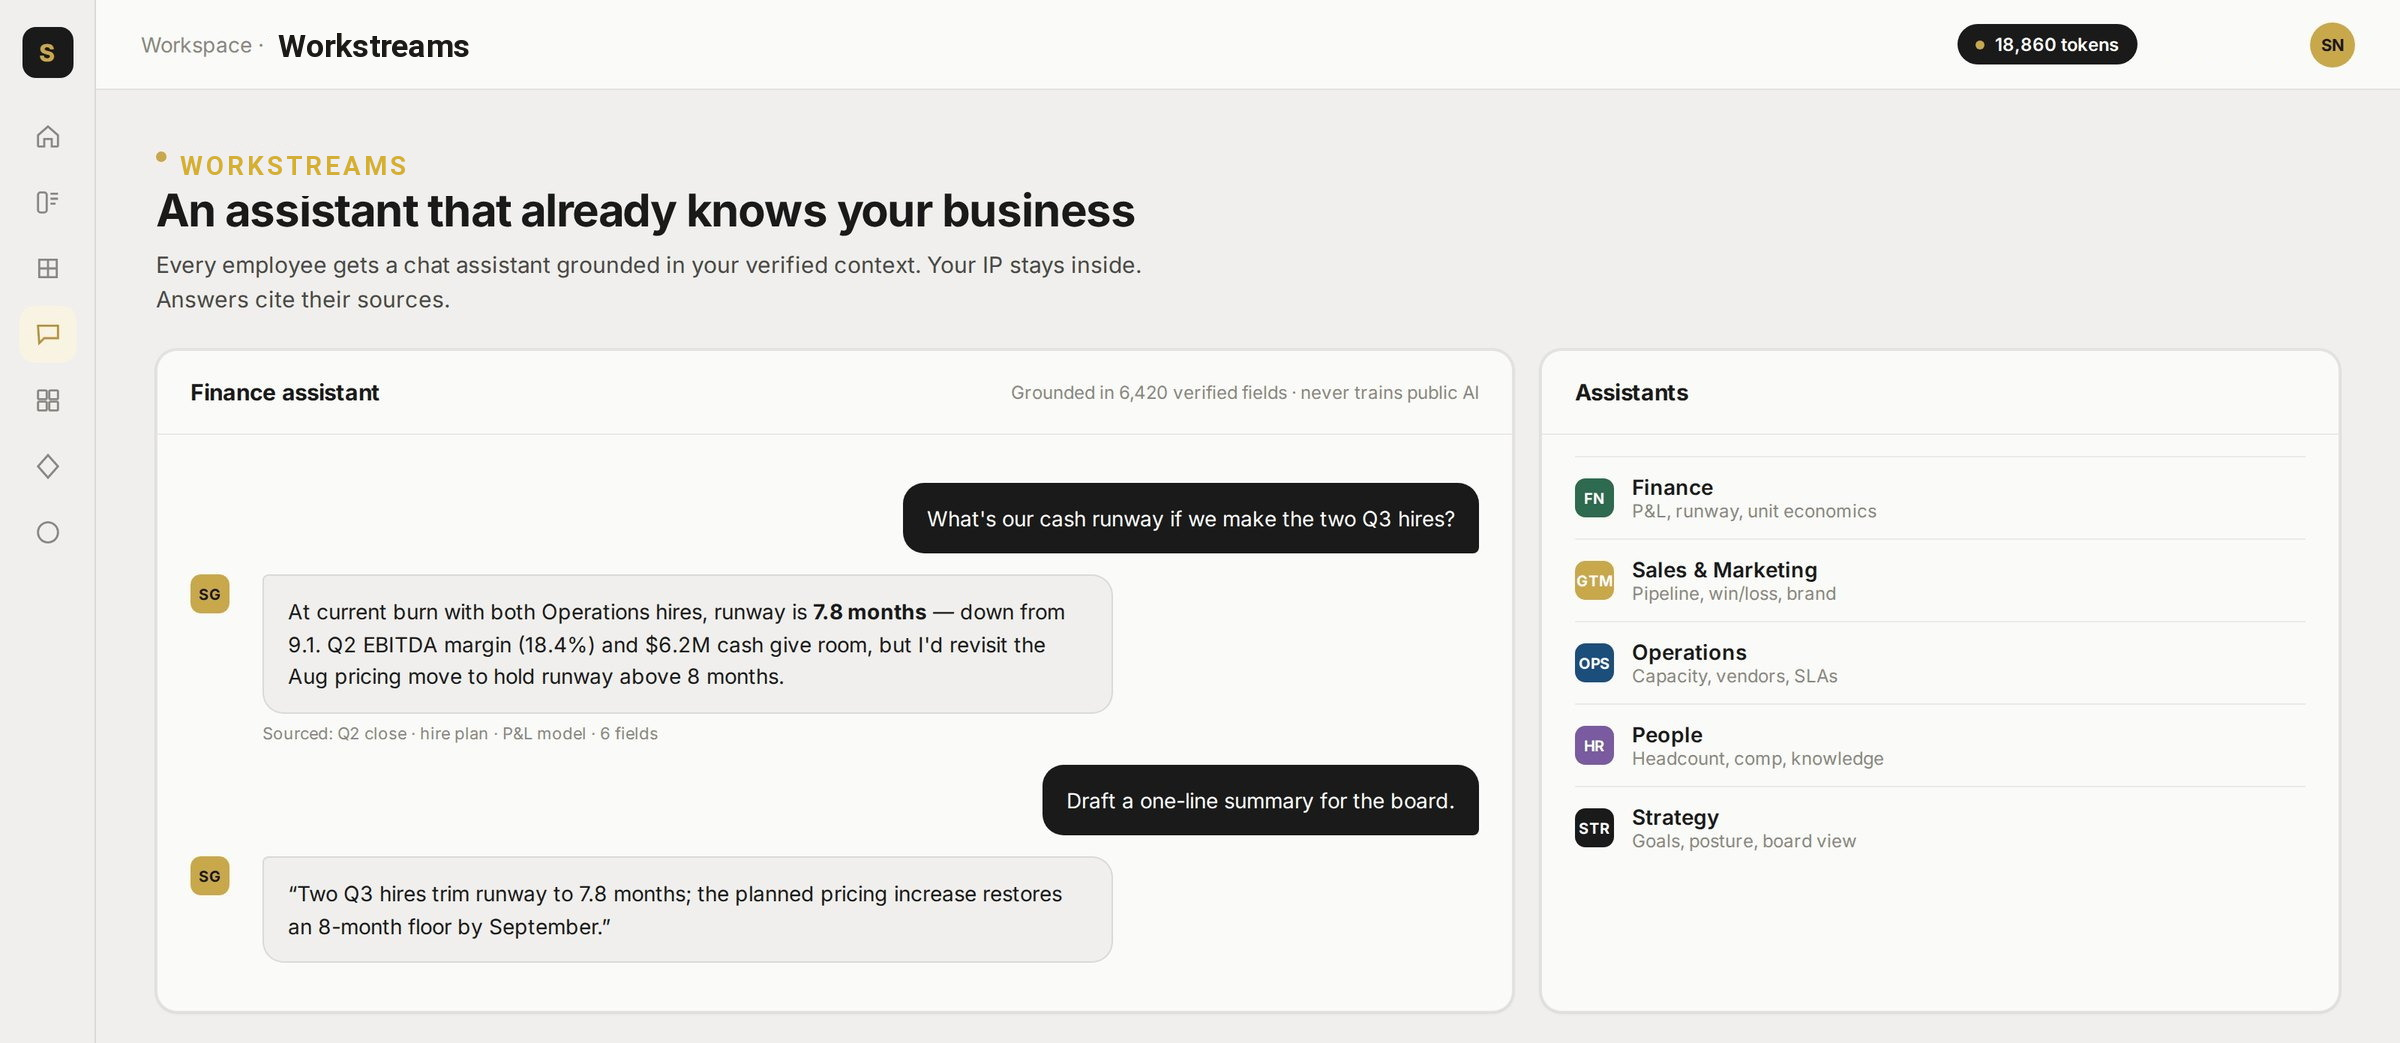
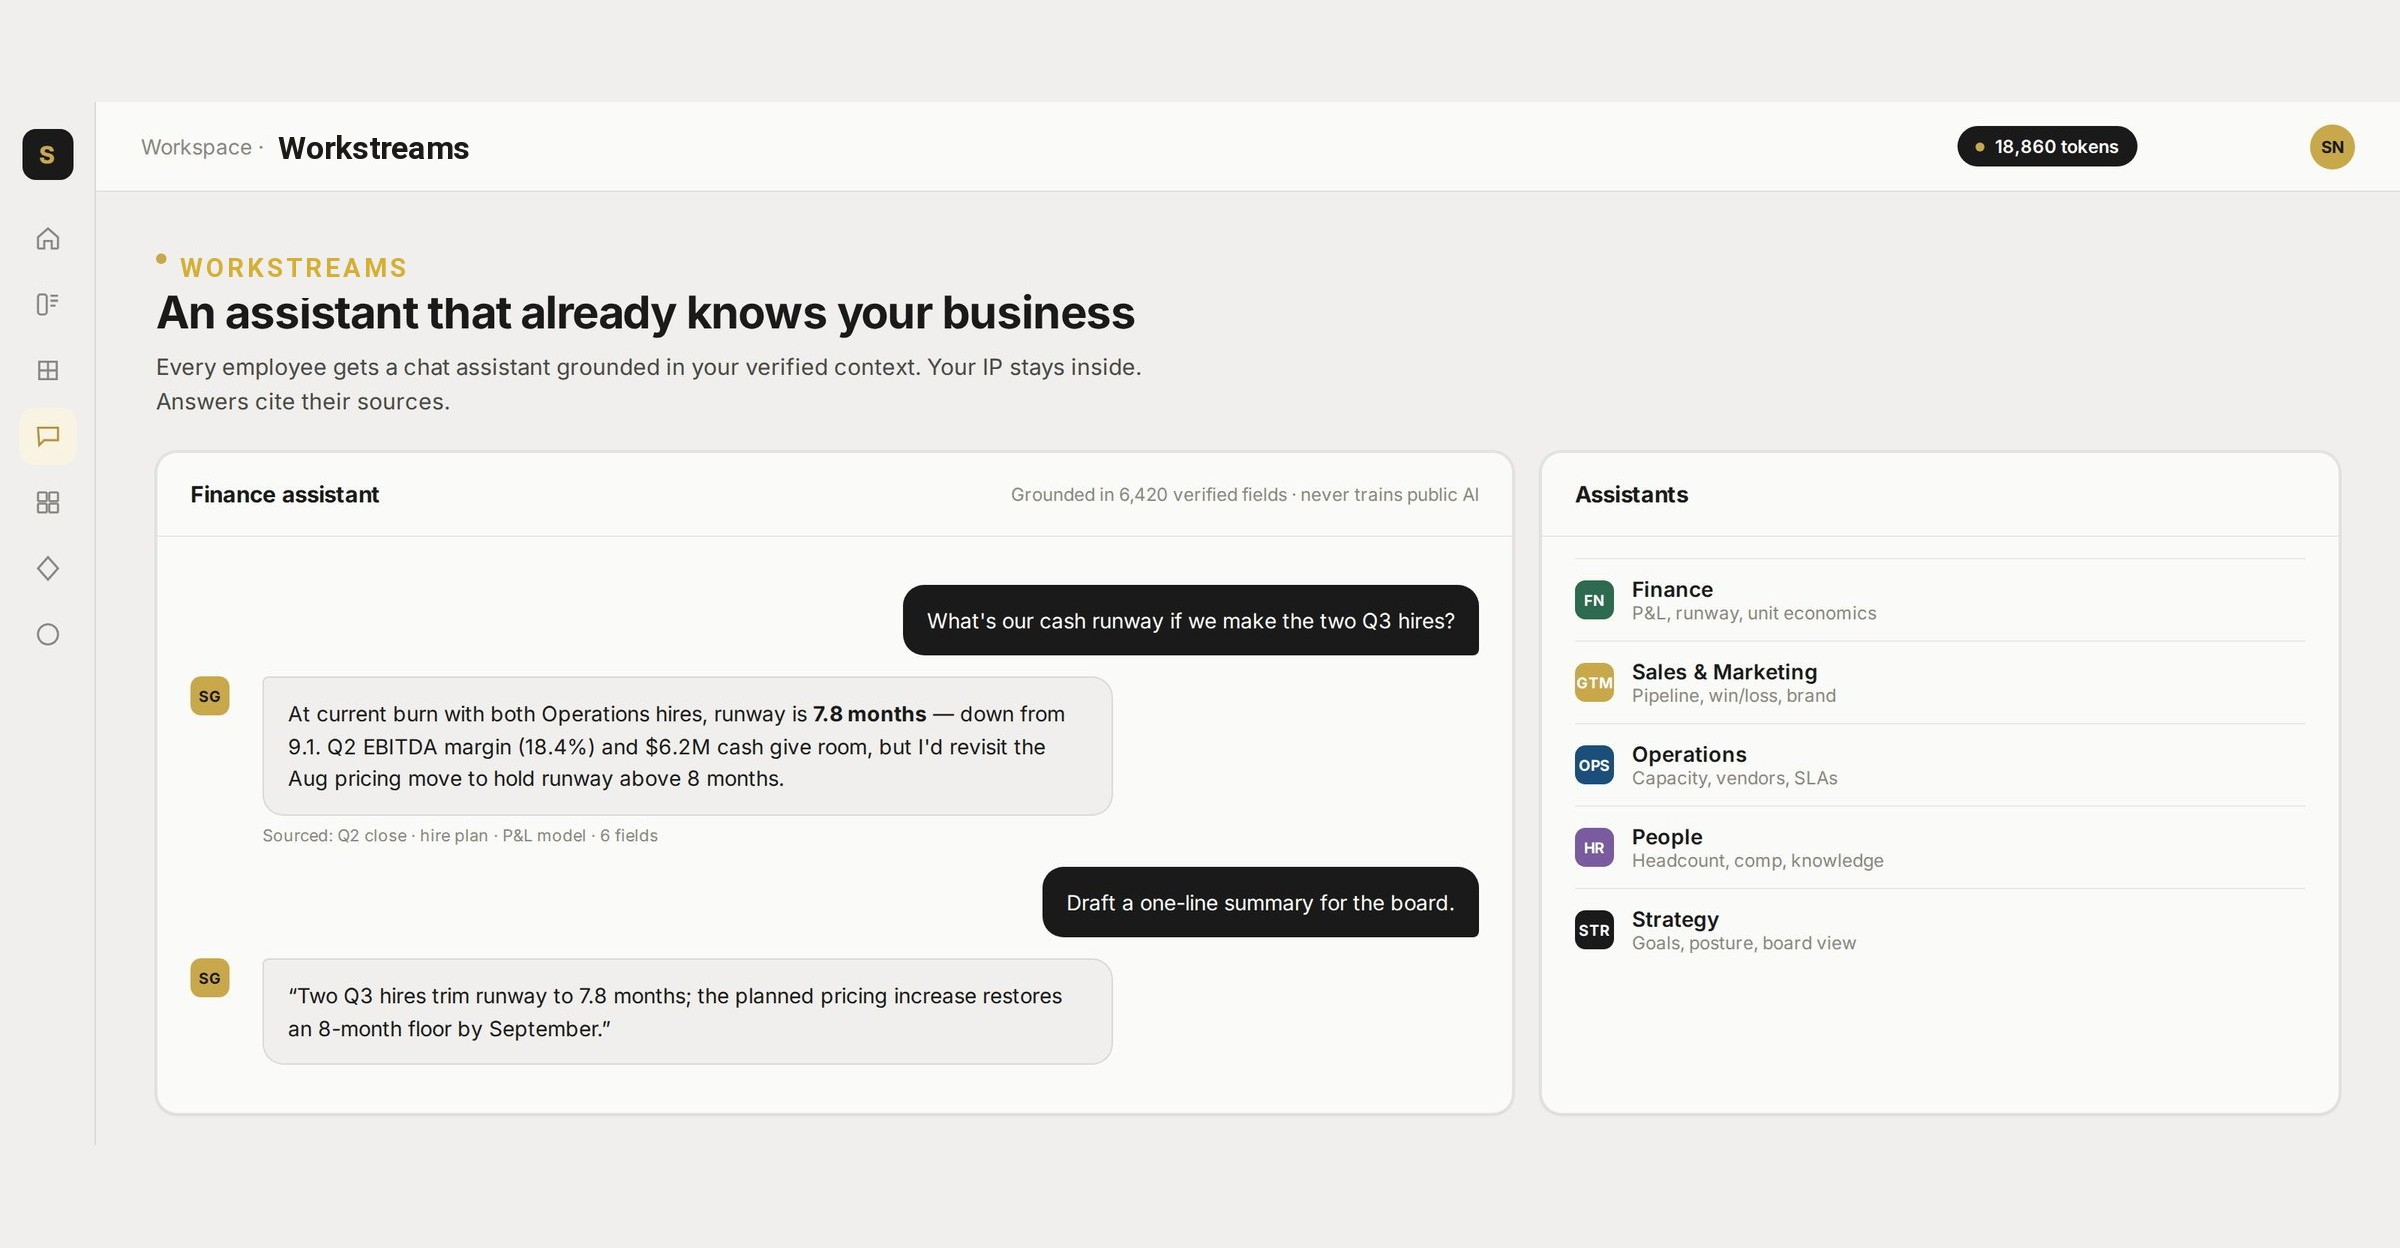
home: Workstreams image reframed to match Business Brain aspect (1600x832), no gray padding

diff --git a/index.html b/index.html
@@ -25,12 +25,13 @@ j=d.createElement(s),dl=l!='dataLayer'?'&l='+l:'';j.async=true;j.src=
 <link rel="apple-touch-icon" href="apple-touch-icon.png?v=1787253912">
 <style>
   /* Homepage section flip: image LEFT, copy RIGHT for Business Brain + Workstreams.
-     Match the Competition Hub / Strategic Insights proportions (image gets the
-     7-col width, copy gets the 5-col width) so the software render is BIG and
-     the copy has proper room to breathe. */
+     Image is BIG: its top-left corner sits at the SECTION's left edge (page
+     margin), bleeding out of the container so the software render dominates.
+     Copy column stays inside the container at a comfortable width. */
   .section--flip .grid--centred {
-    grid-template-columns: minmax(0, 7fr) minmax(0, 5fr) !important;
-    column-gap: var(--sp-7, 2.25rem) !important;
+    grid-template-columns: minmax(0, 8fr) minmax(0, 4fr) !important;
+    column-gap: var(--sp-8, 2.75rem) !important;
+    align-items: center !important;
   }
   .section--flip .grid--centred > .shot.col--6-12 {
     grid-column: 1 / span 1 !important;
@@ -47,14 +48,13 @@ j=d.createElement(s),dl=l!='dataLayer'?'&l='+l:'';j.async=true;j.src=
     grid-row: 1 !important;
     align-self: center !important;
   }
-  /* Flipped sections (Business Brain + Workstreams): image LEFT, copy RIGHT.
-     Software image sits barely inside the section: pull it slightly left of
-     the container edge, fill its column, all four corners rounded. */
+  /* Software image bleeds out of the container to the section's true left edge
+     (page-margin). Corners rounded, top-left touches the section corner. */
   .section--flip .grid--centred > .shot.col--6-12.shot--edge,
   .section--flip .grid--centred > .shot.col--6-12.shot--edge-firm {
-    margin-left: calc(var(--sp-6, 1.75rem) * -1) !important;
+    margin-left: calc(var(--page-margin, 24px) * -1) !important;
     margin-right: 0 !important;
-    width: calc(100% + var(--sp-6, 1.75rem)) !important;
+    width: calc(100% + var(--page-margin, 24px)) !important;
     max-width: none !important;
     border-radius: 16px !important;
     border: 1px solid rgba(29,29,29,.08) !important;
@@ -431,33 +431,15 @@ height="0" width="0" style="display:none;visibility:hidden"></iframe></noscript>
       <article class="plan">
         <span class="plan__name">Starter</span>
         <span class="plan__price"><span class="plan__cur">$</span><span class="plan__amt plan__amt--base" data-base="299">299</span><span class="plan__period">/mo</span></span>
-        <div class="plan__specs">
-          <span class="plan__spec">For a small team</span>
-          <span class="plan__spec">Business Brain included</span>
-          <span class="plan__spec">One competitor tracked</span>
-          <span class="plan__spec">Workstreams for up to 5 people</span>
-        </div>
       </article>
       <article class="plan plan--featured">
         <span class="plan__tag">Most teams pick this</span>
         <span class="plan__name">Team</span>
         <span class="plan__price"><span class="plan__cur">$</span><span class="plan__amt plan__amt--base" data-base="499">499</span><span class="plan__period">/mo</span></span>
-        <div class="plan__specs">
-          <span class="plan__spec">For a growing company</span>
-          <span class="plan__spec">Business Brain included</span>
-          <span class="plan__spec">Three competitors tracked</span>
-          <span class="plan__spec">Workstreams for up to 15 people</span>
-        </div>
       </article>
       <article class="plan">
         <span class="plan__name">Company</span>
         <span class="plan__price"><span class="plan__cur">$</span><span class="plan__amt plan__amt--base" data-base="899">899</span><span class="plan__period">/mo</span></span>
-        <div class="plan__specs">
-          <span class="plan__spec">For a whole business</span>
-          <span class="plan__spec">Business Brain included</span>
-          <span class="plan__spec">Five competitors tracked</span>
-          <span class="plan__spec">Workstreams for up to 50 people</span>
-        </div>
       </article>
     </div>
 
@@ -475,11 +457,7 @@ height="0" width="0" style="display:none;visibility:hidden"></iframe></noscript>
       </div>
     </div>
 
-    <div class="section__head section__head--centered" style="margin-top:2.5rem;">
-      <p class="section__lede section__lede--center"><strong>Extra seats:</strong> $75 per person per month.</p>
-    </div>
-
-    <div class="btn-row btn-row--center btn-row--stack block-after">
+    <div class="btn-row btn-row--center btn-row--stack block-after" style="margin-top:2.5rem;">
       <a class="btn btn--secondary" href="pricing.html">See full pricing</a>
     </div>
 
